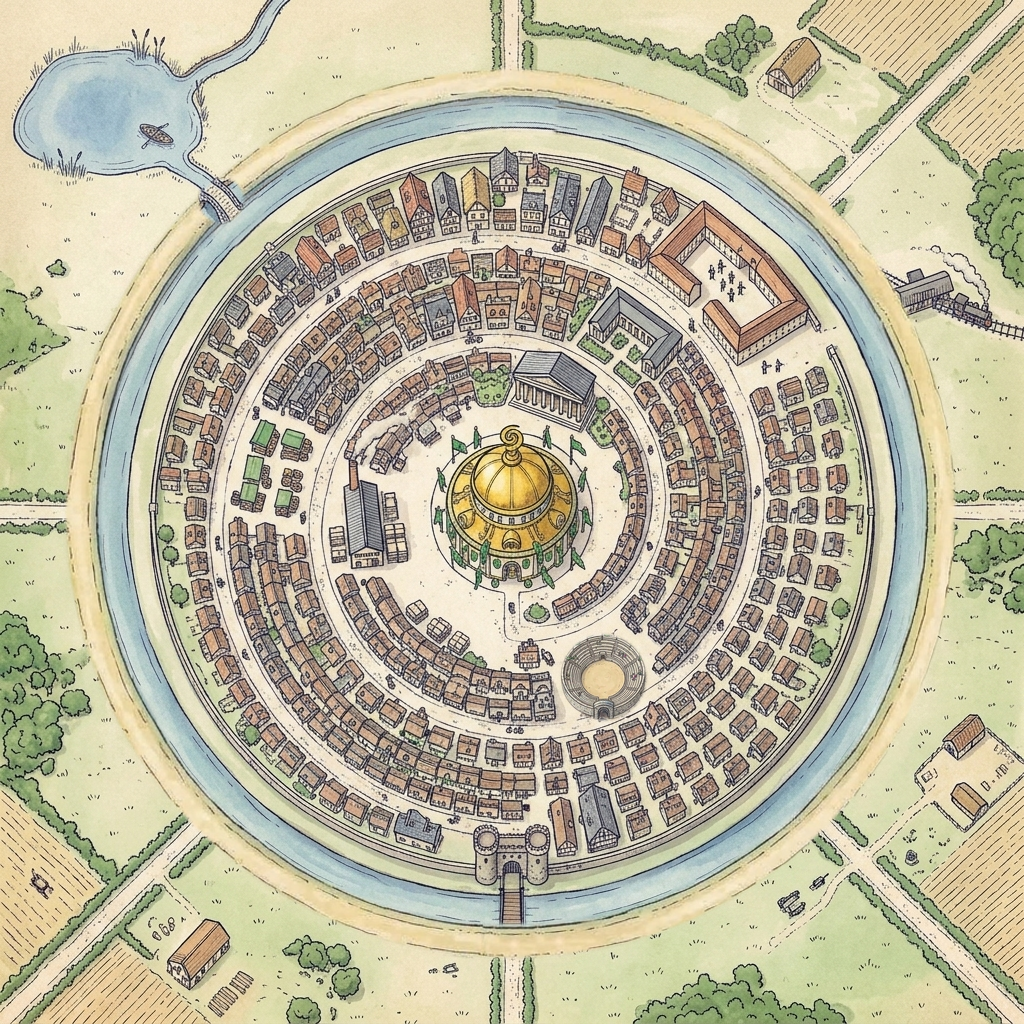
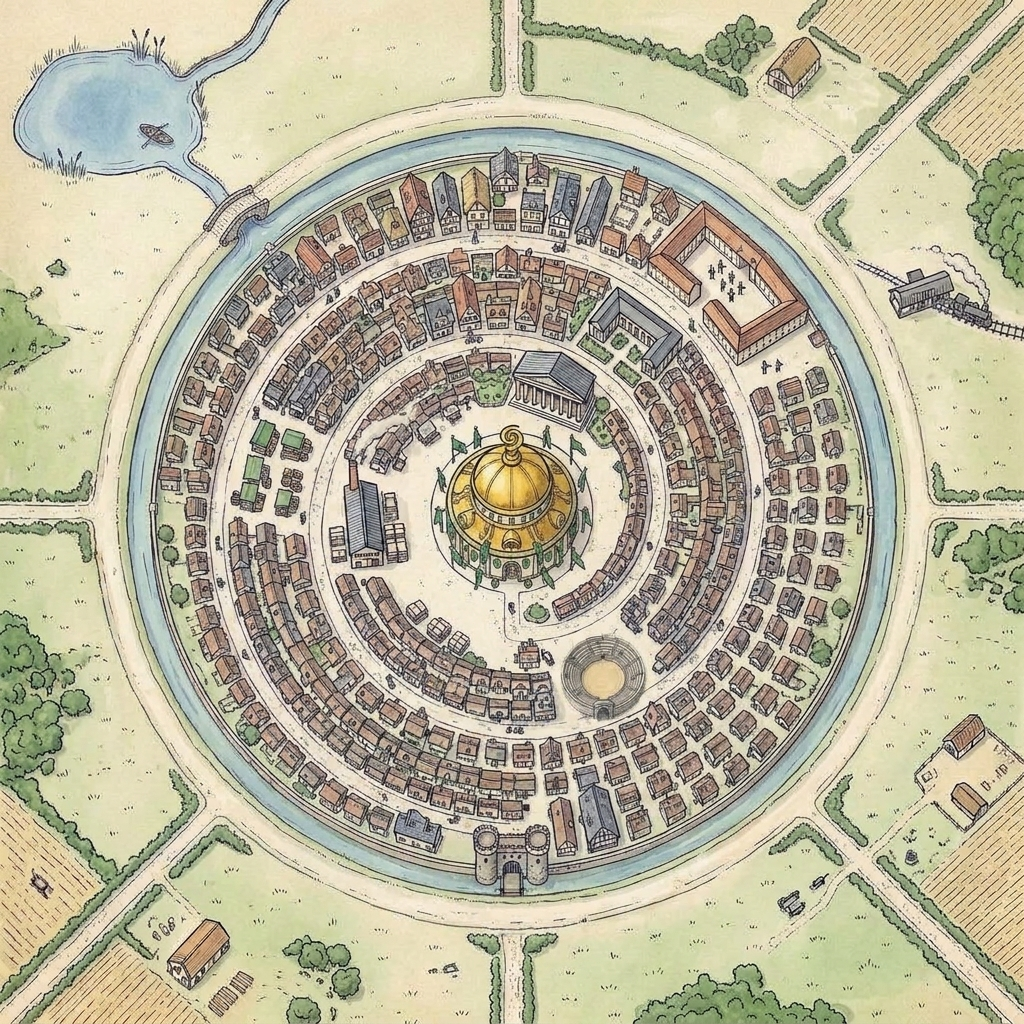
docs(wip): illustrations, Sandomir, route par Nano Banana et Pont-Levis raccourci
Claude-Session: https://claude.ai/code/session_01WMAjmmHoEUS9oANk42SmfT

diff --git a/docs/wip/illustrations-progress.md b/docs/wip/illustrations-progress.md
@@ -5,8 +5,8 @@
 _Mis à jour le 2026-10-29, carte de Sandomir par l'IA, ponts et arène corrigés à la main (pas de PR : chantier 100 % doc)._
 
 - **État** : casting, gouverneurs et Palotins versés au Compendium (§ XI) ; plans des sept capitales au Compendium. **Grande carte terminée** : sept villes, noms, frontières, cartouche et encart de la Réunion (bas-droite). **Fond de la grande carte FIGÉ** : `carte/fond-carte-hd.webp` (4356×3904, WebP q92 ; PNG maître de 32 Mo chez David, `~/Downloads/fond-carte-hd-2026-10-29.png`, hors dépôt). Chaîne : Nano Banana (style carte de conte / carte marine, référence `carte/plan-reference-ia.png`) → retouches une à une (`carte/fond-retouche-2026-10-29.jpeg`, 1089×976) → Upscayl ×4, modèle High Fidelity (Digital Art durcit les traits en BD, Standard floute). Pas de clairière à Sinusborg (sa vignette couvrira le delta). Leçon : chaque retouche Nano Banana dégrade l'image ; nouvelle conversation, une retouche par demande.
-- **Prochaine action** : Sandomir : image de la ville `villes/sandomir/carte-ia.png` (original Nano Banana + ponts effacés par `effacer-ponts.sh` + arène réduite par `coller-arene.sh` + route circulaire par `ajouter-route.sh` → `carte-ville.png`) **à faire valider par David** ; ensuite surcouche SVG des noms des 7 lieux + Gare, cliquables (`id` par lieu), comme `carte/carte-royaume.svg` ; puis les six autres capitales (même méthode : plan schématique → plan seul en pièce jointe → retouches locales à la main plutôt que par Nano Banana). Grande carte : `carte/carte-royaume.svg` VALIDÉ, régénéré par `python3 carte/carte-royaume.py carte/carte-royaume.svg` ; rendu SVG → PNG par `chrome-headless-shell` de Playwright.
-- **En attente de David** : validation de `villes/sandomir/carte-ville.png` (arène rayon 42, route circulaire recollée).
+- **Prochaine action** : Sandomir : image de la ville `villes/sandomir/carte-ia.png` (original Nano Banana + ponts effacés par `effacer-ponts.sh` + arène réduite par `coller-arene.sh` + route circulaire par retouche Nano Banana `carte-route-ia.jpeg`, Pont-Levis raccourci par `raccourcir-pont-levis.sh` → `carte-ville.png`) **à faire valider par David** ; ensuite surcouche SVG des noms des 7 lieux + Gare, cliquables (`id` par lieu), comme `carte/carte-royaume.svg` ; puis les six autres capitales (même méthode : plan schématique → plan seul en pièce jointe → retouches locales à la main plutôt que par Nano Banana). Grande carte : `carte/carte-royaume.svg` VALIDÉ, régénéré par `python3 carte/carte-royaume.py carte/carte-royaume.svg` ; rendu SVG → PNG par `chrome-headless-shell` de Playwright.
+- **En attente de David** : validation de `villes/sandomir/carte-ville.png` (retouche « route » de Nano Banana, Pont-Levis raccourci).
 - **Pièges en cours** : **fichiers pour l'IA copiés dans `~/Downloads`** ; une retouche Nano Banana redessine toute l'image (couleurs, netteté) : corriger à la main sur l'original (`effacer-ponts.sh`, `coller-arene.sh`) ; image de style en 2e pièce jointe = copiée telle quelle, ne pas la joindre. **pas de formes géométriques plaquées sur le paysage** (David, 2026-10-29) : la discipline de chaque province ne se montre que dans sa ville. Ubu sans chapeau pointu ni longue robe blanche ; joindre l'image d'Ubu comme référence à chaque nouveau personnage ; noms de couleurs en anglais courant ; références sans texte ; jamais de personne réelle nommée. Le Lexique décrit encore Turingrad « brutaliste soviétique » : ne pas y toucher sans demande.
 - **Worktree / branche** : aucun, commits doc directs sur `main`.
 
@@ -88,3 +88,4 @@ No text, no labels, no letters, no compass rose, no frame, no border.
 Essais Sandomir (2026-10-29) : avec la 1re proposition en 2e pièce jointe (référence de style), Nano Banana l'a recopiée telle quelle (deux arènes, palais en tour) et n'a enrichi que la campagne → **plan seul** en pièce jointe. Prompt retenu : celui ci-dessus, enrichi (une seule arène, palais « single plump round body (not a tiered tower) », rue « continuous pale cobbled lane », maisons toutes différentes « drawn in slight perspective », campagne détaillée). Résultat gardé : `villes/sandomir/carte-ia-original.jpeg`. Défauts : deux ponts en trop (nord, nord-est), arène réduite à un disque de sable. La retouche Nano Banana des ponts a redessiné toute l'image (douves turquoise, traits mous) : ponts effacés à la main sur l'original par `effacer-ponts.sh` (eau des douves recopiée 25° plus loin, les douves étant un cercle) → `carte-ia-sans-ponts.png`.
 Arène : retouche Nano Banana (`arene-ia.jpeg`) très belle mais trop grosse, elle coupait la rue ; seule l'arène est gardée, réduite au plus grand rayon qui tient entre les deux tours de rue (42 px, demandé par David) et collée par `coller-arene.sh` → **`villes/sandomir/carte-ia.png`** (image de la ville, à faire valider par David).
 Route circulaire (oubliée par Nano Banana, les six routes butaient sur l'eau) : la retouche « add a ring road » (`route-ia.jpeg`) l'a mise à la place des douves, Pont-Levis et canal par-dessus. On n'en garde que la route, agrandie ×1,08 autour du centre pour tomber hors de nos douves ; Pont-Levis qui s'arrête au bord de la route ; petit pont du canal déplacé sur la route → `ajouter-route.sh` → **`villes/sandomir/carte-ville.png`** (à faire valider par David).
+Route, 2e essai : ma greffe (`ajouter-route.sh`) refusée par David. Nouvelle retouche Nano Banana sur `carte-ia.png`, prompt précis (route sur l'herbe hors de la berge, douves intactes, Pont-Levis qui s'arrête à la route, petit pont de pierre sur le canal) → `carte-route-ia.jpeg`, gardée telle quelle (douves un peu rétrécies, acceptées) sauf le Pont-Levis qui enjambait encore la route : raccourci par `raccourcir-pont-levis.sh` → **`carte-ville.png`** (remplace la version de `ajouter-route.sh`).
